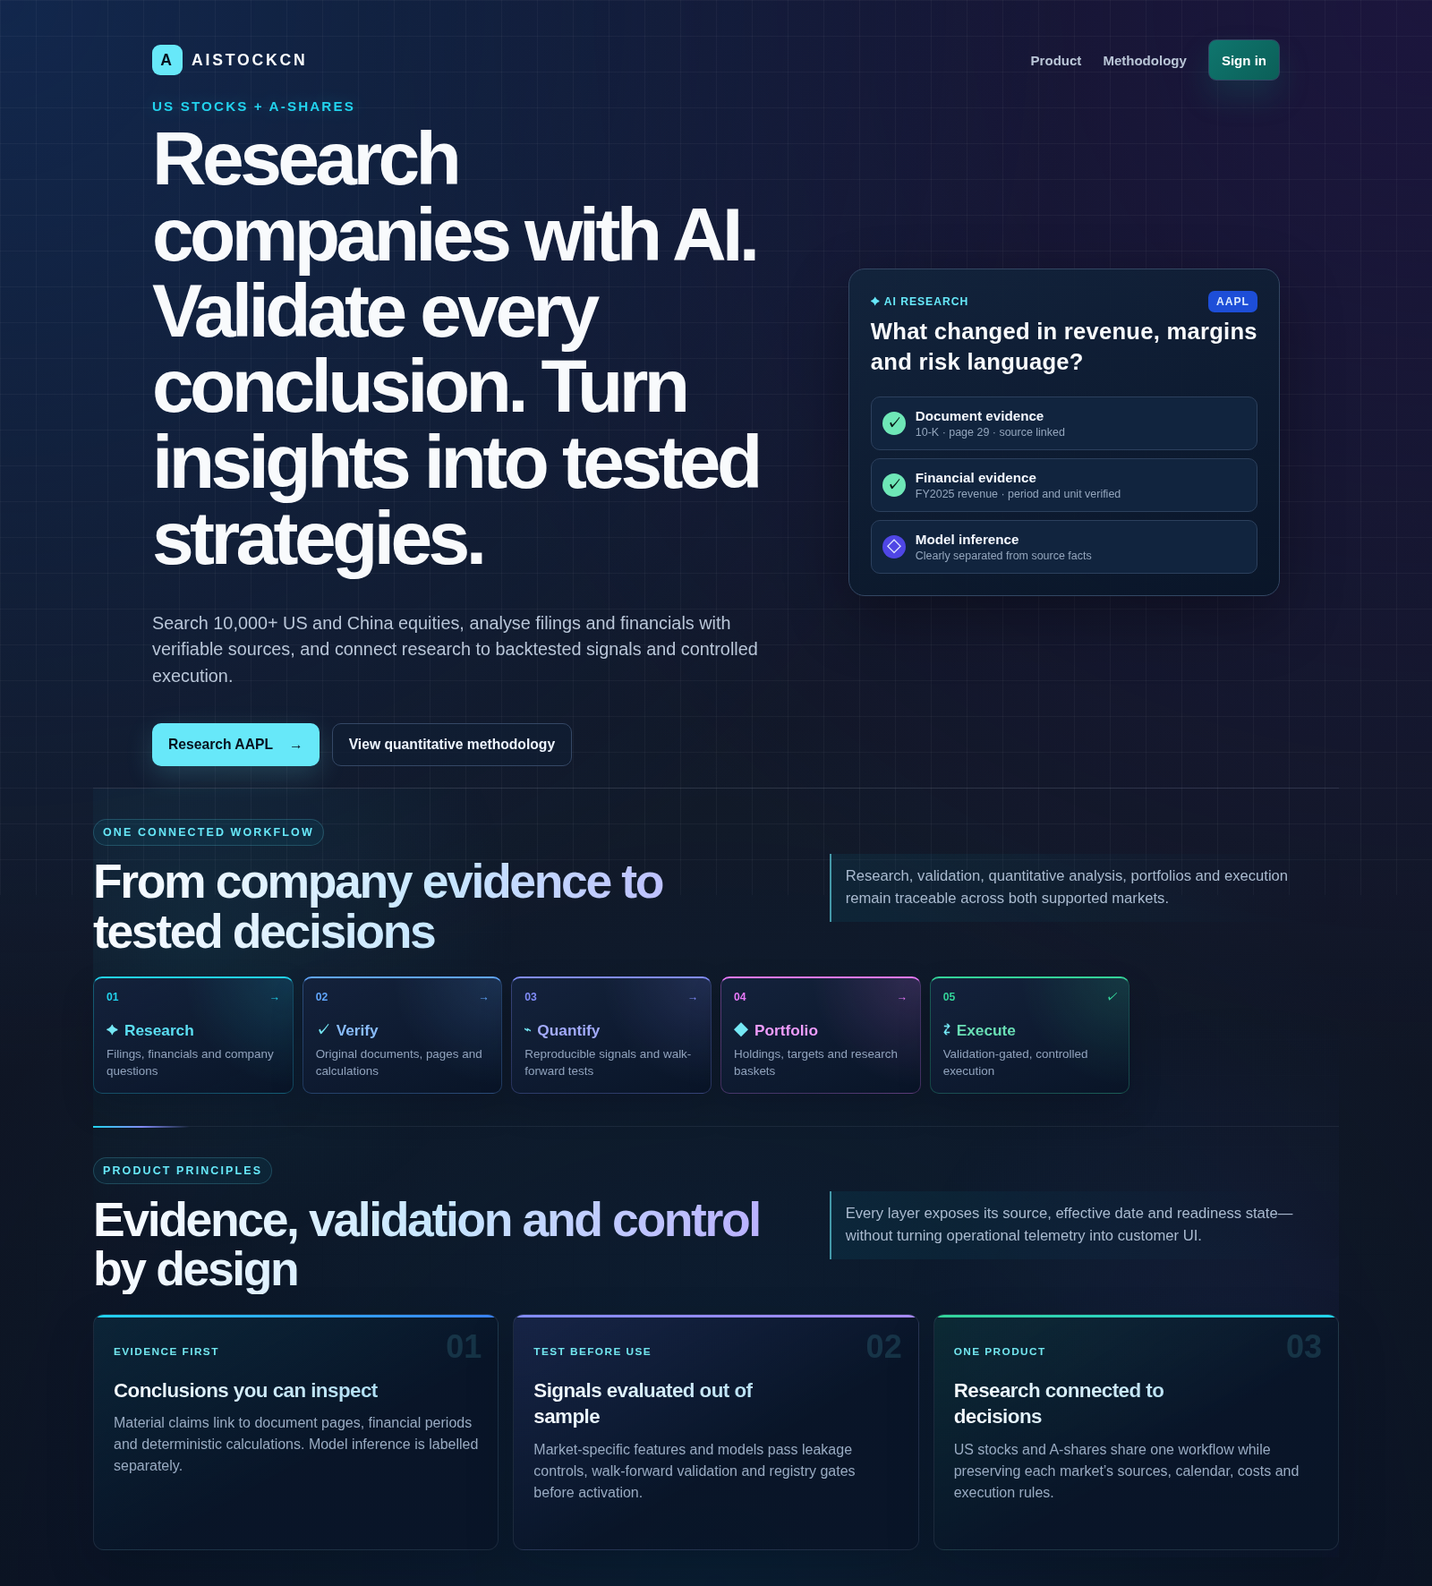
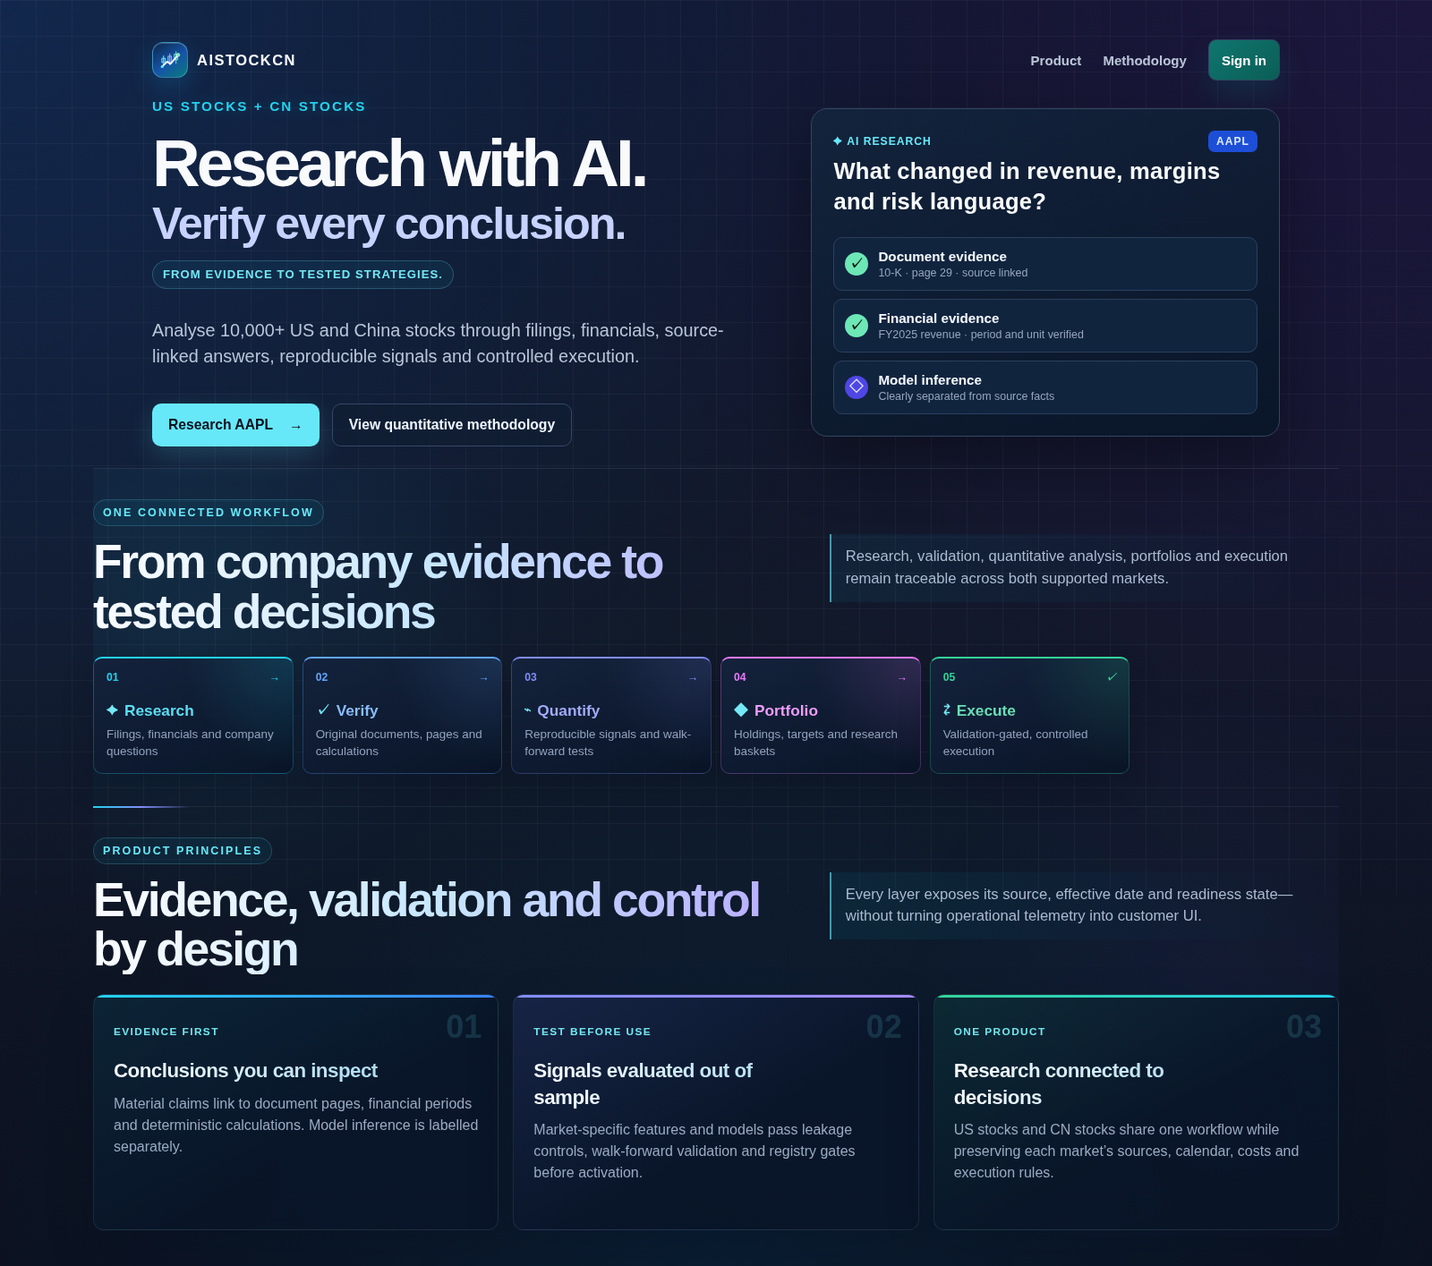
feat: refine dual-market brand and homepage hero

diff --git a/apps/web/app/globals.css b/apps/web/app/globals.css
@@ -4789,14 +4789,25 @@ select {
 .unified-home-hero { min-height: auto; padding-top: 0; }
 .landing-nav { display: flex; align-items: center; justify-content: space-between; width: min(1260px, calc(100% - 36px)); margin: 0 auto; padding: 20px 0; }
 .landing-brand { display: flex; align-items: center; gap: 10px; color: #f8fafc; text-decoration: none; font-size: 1.1rem; }
-.landing-brand > span { display: grid; width: 34px; height: 34px; place-items: center; border-radius: 9px; color: #06111f; background: #67e8f9; font-weight: 900; }
+.landing-brand strong { font-size: 1.03rem; font-weight: 820; letter-spacing: .09em; text-transform: uppercase; }
+.aistock-brand-mark { display: grid; width: 40px; height: 40px; flex: 0 0 auto; place-items: center; overflow: hidden; border: 1px solid rgb(125 211 252 / 42%); border-radius: 12px; color: #fff; background: linear-gradient(145deg, #0b2746 0%, #1654a8 54%, #087b79 100%); box-shadow: 0 10px 28px rgb(14 165 233 / 22%), inset 0 1px 0 rgb(255 255 255 / 18%); }
+.aistock-brand-mark svg { width: 31px; height: 31px; overflow: visible; }
+.aistock-brand-mark .brand-candle { fill: rgb(103 232 249 / 15%); stroke: #77e6f5; stroke-width: 1.25; }
+.aistock-brand-mark .brand-candle-mid { stroke: #a5b4fc; }
+.aistock-brand-mark .brand-candle-right { stroke: #6ee7b7; }
+.aistock-brand-mark .brand-trend { fill: none; stroke: #fff; stroke-width: 2.35; stroke-linecap: round; stroke-linejoin: round; }
+.aistock-brand-mark .brand-market-us { fill: #67e8f9; }
+.aistock-brand-mark .brand-market-cn { fill: #6ee7b7; stroke: rgb(255 255 255 / 80%); stroke-width: .8; }
 .landing-nav > div { display: flex; align-items: center; gap: 24px; }
 .landing-nav > div a { color: #bac6d7; text-decoration: none; font-size: .94rem; font-weight: 650; }
 .landing-nav > div a:hover { color: #fff; }
 .landing-nav .landing-login { padding: 9px 14px; border: 1px solid #334765; border-radius: 9px; color: #fff; }
-.unified-hero-grid { display: grid; grid-template-columns: minmax(0, 1.18fr) minmax(360px, .82fr); align-items: center; gap: clamp(36px, 6vw, 84px); width: min(1260px, 100%); margin: 0 auto; }
-.unified-hero-grid h1 { max-width: 880px; margin: 10px 0 18px; color: #f8fafc; font-size: clamp(2.65rem, 5vw, 5rem); line-height: 1.01; letter-spacing: -.055em; }
-.unified-hero-grid .hero-panel-copy-lead { max-width: 790px; color: #b9c6d8; font-size: clamp(1.08rem, 1.5vw, 1.28rem); line-height: 1.58; }
+.unified-hero-grid { display: grid; grid-template-columns: minmax(0, 1.12fr) minmax(360px, .88fr); align-items: center; gap: clamp(36px, 5vw, 70px); width: min(1260px, 100%); margin: 0 auto; }
+.unified-hero-title-stack { display: grid; gap: 4px; margin: 12px 0 22px; }
+.unified-hero-grid .unified-hero-title-stack h1 { max-width: 760px; margin: 0; padding: 0; color: #f8fafc; font-size: clamp(3.25rem, 5.2vw, 4.65rem); line-height: .98; letter-spacing: -.052em; }
+.unified-hero-thesis { margin: 0; color: #c7d2fe; font-size: clamp(2.05rem, 3.6vw, 3.15rem); font-weight: 760; line-height: 1.05; letter-spacing: -.04em; }
+.unified-hero-outcome { width: fit-content; margin: 10px 0 0; padding: 7px 11px; border: 1px solid rgb(103 232 249 / 24%); border-radius: 999px; color: #73e7f4; background: rgb(14 116 144 / 13%); font-size: .82rem; font-weight: 820; letter-spacing: .08em; line-height: 1.2; text-transform: uppercase; }
+.unified-hero-grid .hero-panel-copy-lead { max-width: 690px; color: #b9c6d8; font-size: clamp(1.04rem, 1.35vw, 1.18rem); line-height: 1.55; }
 .landing-actions { display: flex; flex-wrap: wrap; align-items: center; gap: 14px; margin-top: 28px; }
 .landing-primary-cta, .landing-secondary-cta { display: inline-flex; min-height: 48px; align-items: center; justify-content: center; gap: 18px; padding: 0 18px; border-radius: 10px; text-decoration: none; font-size: .98rem; font-weight: 800; }
 .landing-primary-cta { color: #06111f; background: #67e8f9; box-shadow: 0 10px 30px rgb(103 232 249 / 18%); }
@@ -4815,7 +4826,7 @@ select {
 .product-flow .case-flow-step strong { display: flex; align-items: center; gap: 7px; }
 .product-flow .case-flow-step strong b { color: #75e8f5; font-size: .9em; }
 
-@media (max-width: 900px) {
+@media (max-width: 1080px) {
   .unified-hero-grid { grid-template-columns: 1fr; }
   .landing-evidence-card { max-width: 650px; }
   .landing-nav > div > a:not(.landing-login) { display: none; }
@@ -4823,7 +4834,9 @@ select {
 
 @media (max-width: 560px) {
   .landing-nav { width: calc(100% - 24px); }
-  .unified-hero-grid h1 { font-size: 2.45rem; }
+  .unified-hero-grid .unified-hero-title-stack h1 { font-size: 2.8rem; }
+  .unified-hero-thesis { font-size: 2rem; }
+  .unified-hero-outcome { border-radius: 9px; font-size: .72rem; line-height: 1.35; }
   .landing-actions { align-items: stretch; }
   .landing-actions a { width: 100%; }
   .landing-evidence-card { padding: 16px; }
@@ -8444,10 +8457,9 @@ select {
   font-size: 0.95rem;
 }
 
-.customer-home-hero .hero-landing h1,
-.customer-home-hero h1 {
+.customer-home-hero .unified-hero-title-stack h1 {
   margin-top: -2px;
-  font-size: clamp(3.8rem, 6vw, 5.25rem);
+  font-size: clamp(3.25rem, 5.2vw, 4.65rem);
 }
 
 .customer-home-hero .hero-platform-title {
@@ -8576,9 +8588,8 @@ select {
     font-size: 0.84rem;
   }
 
-  .customer-home-hero .hero-landing h1,
-  .customer-home-hero h1 {
-    font-size: 3.25rem;
+  .customer-home-hero .unified-hero-title-stack h1 {
+    font-size: 2.8rem;
   }
 
   .customer-home-hero .hero-platform-title {

diff --git a/apps/web/components/customer-home-page.tsx b/apps/web/components/customer-home-page.tsx
@@ -2,6 +2,7 @@ import Link from "next/link";
 import { redirect } from "next/navigation";
 
 import { CustomerSystemArchitecture } from "@/components/customer-system-architecture";
+import { BrandMark } from "@/components/brand-mark";
 import { getCurrentUser } from "@/lib/auth";
 
 export async function CustomerHomePage() {
@@ -13,17 +14,21 @@ export async function CustomerHomePage() {
       <div className="shell shell-dark customer-home-shell">
         <header className="hero-landing customer-home-hero unified-home-hero">
           <nav className="landing-nav" aria-label="Public navigation">
-            <Link href="/" className="landing-brand"><span>A</span><strong>AiStockCN</strong></Link>
+            <Link href="/" className="landing-brand" aria-label="AiStockCN home"><BrandMark /><strong>AiStockCN</strong></Link>
             <div><a href="#product-flow">Product</a><a href="#quantitative-methodology">Methodology</a><Link href="/login" className="landing-login">Sign in</Link></div>
           </nav>
           <section className="hero-landing-stage">
             <div className="unified-hero-grid">
               <div className="hero-panel-copy-wrap">
-                <p className="eyebrow hero-dark-eyebrow">US STOCKS + A-SHARES</p>
-                <h1>Research companies with AI. Validate every conclusion. Turn insights into tested strategies.</h1>
+                <p className="eyebrow hero-dark-eyebrow">US STOCKS + CN STOCKS</p>
+                <div className="unified-hero-title-stack">
+                  <h1>Research with AI.</h1>
+                  <p className="unified-hero-thesis">Verify every conclusion.</p>
+                  <p className="unified-hero-outcome">From evidence to tested strategies.</p>
+                </div>
                 <p className="hero-panel-copy hero-panel-copy-lead">
-                  Search 10,000+ US and China equities, analyse filings and financials with verifiable sources,
-                  and connect research to backtested signals and controlled execution.
+                  Analyse 10,000+ US and China stocks through filings, financials, source-linked answers,
+                  reproducible signals and controlled execution.
                 </p>
                 <div className="landing-actions">
                   <Link href="/login?return_to=%2Fus%2Fresearch%3Fsymbol%3DAAPL" className="landing-primary-cta">Research AAPL <span>→</span></Link>

diff --git a/apps/web/app/cn/research/page.tsx b/apps/web/app/cn/research/page.tsx
@@ -27,13 +27,13 @@ export default async function CnResearchPage({
   const matches = result.companies;
 
   return (
-    <Shell title="A-Share Research" subtitle="Official disclosures and financial evidence" locale={user.locale} username={user.displayName} role={user.role} market="CN">
+    <Shell title="CN Stock Research" subtitle="Official disclosures and financial evidence" locale={user.locale} username={user.displayName} role={user.role} market="CN">
       <section className="product-stage-heading">
-        <div><span className="stage-icon">✦</span><div><h1>Company Research</h1><p>Find an A-share company and review traceable market and disclosure evidence.</p></div></div>
+        <div><span className="stage-icon">✦</span><div><h1>Company Research</h1><p>Find a CN stock and review traceable market and disclosure evidence.</p></div></div>
         <span className="capability-label status-in_validation">In validation</span>
       </section>
       <form className="us-stock-search product-search" action="/cn/research" method="get">
-        <input name="q" defaultValue={query} placeholder="Search ticker or company name" aria-label="Search A-share companies" autoFocus />
+        <input name="q" defaultValue={query} placeholder="Search ticker or company name" aria-label="Search CN stocks" autoFocus />
         <button type="submit">Search</button>
         {query ? <Link href="/cn/research">Clear</Link> : null}
       </form>
@@ -52,7 +52,7 @@ export default async function CnResearchPage({
         <MetricCard label="Evidence Policy" value="Official first" hint="Exchange disclosures before third-party data" />
         <MetricCard label="Language" value="中文 / English" />
       </section>
-      <Panel title={query ? `Results for “${query}”` : "A-Share companies"}>
+      <Panel title={query ? `Results for “${query}”` : "CN stock companies"}>
         <DataTable
           rows={matches.map((stock) => ({ code: stock.symbol, code_href: `/cn/research?symbol=${encodeURIComponent(stock.symbol)}`, company: stock.stock_name_zh || stock.stock_name, exchange: stock.market }))}
           columns={[{ key: "code", label: "Ticker" }, { key: "company", label: "Company" }, { key: "exchange", label: "Exchange" }]}

diff --git a/apps/web/components/quant-methodology-page.tsx b/apps/web/components/quant-methodology-page.tsx
@@ -24,12 +24,12 @@ export async function QuantMethodologyPage({ market, view, user }: { market: "CN
     <Shell title="Quant" subtitle="Signals, validation and market data" locale={user.locale} username={user.displayName} role={user.role} market={market}>
       <ProductSubnav items={tabs(market)} active={view} />
       <section className="product-stage-heading">
-        <div><span className="stage-icon">⌁</span><div><h1>{view === "methodology" ? "Quantitative Methodology" : "Walk-forward Validation"}</h1><p>{market === "US" ? "US-specific 5-day research pipeline" : "A-share production signal pipeline"}</p></div></div>
+        <div><span className="stage-icon">⌁</span><div><h1>{view === "methodology" ? "Quantitative Methodology" : "Walk-forward Validation"}</h1><p>{market === "US" ? "US-specific 5-day research pipeline" : "CN stock production signal pipeline"}</p></div></div>
         {capability ? <span className={`capability-label status-${capability.status}`}>{capability.status.replaceAll("_", " ")}</span> : null}
       </section>
       {view === "methodology" ? (
         <div className="case-capability-grid quant-method-grid">
-          <Panel title="Market isolation"><p className="panel-copy">{market === "US" ? "US calendar, adjusted prices, USD costs and us_5d_v1 artifacts are isolated from A-share production." : "China calendar, price limits, lot size, fees and model artifacts remain market-specific."}</p></Panel>
+          <Panel title="Market isolation"><p className="panel-copy">{market === "US" ? "US calendar, adjusted prices, USD costs and us_5d_v1 artifacts are isolated from CN stock production." : "China calendar, price limits, lot size, fees and model artifacts remain market-specific."}</p></Panel>
           <Panel title="Leakage controls"><p className="panel-copy">Features use information available at signal time. Purged expanding windows keep training observations away from validation labels.</p></Panel>
           <Panel title="Activation"><p className="panel-copy">Immutable artifacts, checksum manifests and validation records pass through the PostgreSQL Model Registry before paper permission can change.</p></Panel>
         </div>

diff --git a/apps/web/app/us/models/page.tsx b/apps/web/app/us/models/page.tsx
@@ -15,7 +15,7 @@ export default async function UsModelsPage() {
   return (
     <UsShell user={user} title="US Models" subtitle="Training and validation gates">
       <section className="metrics-grid">
-        <MetricCard label="Profile" value={model.profile.name} hint="Independent from all A-share models" />
+        <MetricCard label="Profile" value={model.profile.name} hint="Independent from all CN stock models" />
         <MetricCard label="Horizon" value={`${model.profile.horizon_trading_days} trading days`} hint="Next open to fifth close" />
         <MetricCard label="Benchmark" value={model.profile.benchmark.symbol} hint={model.profile.benchmark.name} />
         <MetricCard label="Available History" value={`${formatNumber(gate.available_trading_dates, user.locale)} days`} hint={`${formatNumber(gate.required_trading_dates, user.locale)} required`} />
@@ -28,7 +28,7 @@ export default async function UsModelsPage() {
         </div>
         <GateChecklist items={[
           { label: "Historical depth", ready: gate.history_ready, detail: `${gate.available_trading_dates} / ${gate.required_trading_dates} trading days.` },
-          { label: "US-only training", ready: gate.training_ready, detail: "The model will train only on United States equities; A-share samples are never mixed in." },
+          { label: "US-only training", ready: gate.training_ready, detail: "The model will train only on United States equities; CN stock samples are never mixed in." },
           { label: "Walk-forward evaluation", ready: gate.walk_forward_ready, detail: "Out-of-sample rank IC, net return, Sharpe and drawdown must be published before activation." },
           { label: "Paper activation", ready: gate.ready, detail: "No US orders can be generated while any gate remains incomplete." }
         ]} />

diff --git a/apps/web/app/admin/page.tsx b/apps/web/app/admin/page.tsx
@@ -116,9 +116,9 @@ export default async function AdminPage() {
     >
       <AdminNavigation active="platform" />
       <section className="admin-workspace-links" aria-label="Operational workspaces">
-        <Link href="/system-monitor"><strong>A-share monitor</strong><span>Runtime and service health</span></Link>
-        <Link href="/batch"><strong>A-share data pipeline</strong><span>Batch progress and controls</span></Link>
-        <Link href="/models"><strong>A-share models</strong><span>Registry, validation and activation</span></Link>
+        <Link href="/system-monitor"><strong>CN stock monitor</strong><span>Runtime and service health</span></Link>
+        <Link href="/batch"><strong>CN stock data pipeline</strong><span>Batch progress and controls</span></Link>
+        <Link href="/models"><strong>CN stock models</strong><span>Registry, validation and activation</span></Link>
         <Link href="/us/system-monitor"><strong>US market monitor</strong><span>Runtime and service health</span></Link>
         <Link href="/us/batch"><strong>US data pipeline</strong><span>Coverage and batch status</span></Link>
         <Link href="/us/models"><strong>US model readiness</strong><span>Pipeline and model gates</span></Link>

diff --git a/apps/web/app/us/paper/page.tsx b/apps/web/app/us/paper/page.tsx
@@ -26,7 +26,7 @@ export default async function UsPaperPage() {
       <Panel title="Validation Gates" aside={<span className="pill">No order actions</span>}>
         <GateChecklist items={[
           { label: "Adjusted historical data", ready: gate.history_ready, detail: `${gate.available_trading_dates} / ${gate.required_trading_dates} dates; ${gate.available_symbols_with_history} / ${gate.required_symbols_with_history} symbols ready.` },
-          { label: "US 5D model candidate", ready: gate.training_ready, detail: "The model, calendar and artifacts remain isolated from A-share production." },
+          { label: "US 5D model candidate", ready: gate.training_ready, detail: "The model, calendar and artifacts remain isolated from CN stock production." },
           { label: "Walk-forward passed", ready: gate.walk_forward_ready, detail: "Out-of-sample performance and costs must pass the published thresholds." },
           { label: "Registry activation", ready: gate.ready, detail: "Activation is atomic and validation-gated; it still cannot submit a broker order." },
           { label: "Broker order submission", ready: false, detail: "Intentionally disabled for the US market in this release." }

diff --git a/apps/web/app/paper/page.tsx b/apps/web/app/paper/page.tsx
@@ -712,7 +712,7 @@ export default async function PaperPage({
 
   return (
     <Shell
-      title="A-Share Execution"
+      title="CN Stocks Execution"
       subtitle="Planned orders, fills and controlled execution"
       locale={user.locale}
       username={user.username}
@@ -720,7 +720,7 @@ export default async function PaperPage({
     >
       <AutoRefresh intervalSeconds={15} />
       <section className="product-stage-heading">
-        <div><span className="stage-icon">⇄</span><div><h1>A-Share Execution</h1><p>Planned orders, fills and controlled broker actions.</p></div></div>
+        <div><span className="stage-icon">⇄</span><div><h1>CN Stocks Execution</h1><p>Planned orders, fills and controlled broker actions.</p></div></div>
         <span className="capability-label status-live">Live</span>
       </section>
       {flash ? <p className={`banner banner-${flash.tone}`}>{flash.text}</p> : null}

diff --git a/apps/web/components/customer-system-architecture.tsx b/apps/web/components/customer-system-architecture.tsx
@@ -9,7 +9,7 @@ const productSteps = [
 const principles = [
   { label: "Evidence first", title: "Conclusions you can inspect", body: "Material claims link to document pages, financial periods and deterministic calculations. Model inference is labelled separately." },
   { label: "Test before use", title: "Signals evaluated out of sample", body: "Market-specific features and models pass leakage controls, walk-forward validation and registry gates before activation." },
-  { label: "One product", title: "Research connected to decisions", body: "US stocks and A-shares share one workflow while preserving each market’s sources, calendar, costs and execution rules." }
+  { label: "One product", title: "Research connected to decisions", body: "US stocks and CN stocks share one workflow while preserving each market’s sources, calendar, costs and execution rules." }
 ];
 
 export function CustomerSystemArchitecture() {

diff --git a/apps/web/components/brand-mark.tsx b/apps/web/components/brand-mark.tsx
@@ -1,0 +1,14 @@
+export function BrandMark({ className = "" }: { className?: string }) {
+  return (
+    <span className={`aistock-brand-mark${className ? ` ${className}` : ""}`} aria-hidden="true">
+      <svg viewBox="0 0 40 40" role="presentation" focusable="false">
+        <path className="brand-candle brand-candle-left" d="M10 13v13M7.5 17h5v6h-5z" />
+        <path className="brand-candle brand-candle-mid" d="M19 10v17M16.5 14h5v8h-5z" />
+        <path className="brand-candle brand-candle-right" d="M28 7v18M25.5 11h5v8h-5z" />
+        <path className="brand-trend" d="M8 29l7-7 5 3 11-13" />
+        <circle className="brand-market brand-market-us" cx="8" cy="29" r="2" />
+        <circle className="brand-market brand-market-cn" cx="31" cy="12" r="2.4" />
+      </svg>
+    </span>
+  );
+}

diff --git a/apps/web/components/shell.tsx b/apps/web/components/shell.tsx
@@ -8,6 +8,7 @@ import { ShanghaiTime } from "@/components/shanghai-time";
 import { ThemeToggle } from "@/components/theme-toggle";
 import { MarketSwitcher } from "@/components/market-switcher";
 import { getMarketCapabilities, type MarketStage } from "@/lib/api";
+import { BrandMark } from "@/components/brand-mark";
 
 export async function Shell({
   title,
@@ -59,7 +60,7 @@ export async function Shell({
       <div className="us-terminal-shell">
         <aside className="us-terminal-sidebar">
           <div className="us-terminal-brand">
-            <span className="us-terminal-mark" aria-hidden="true">A</span>
+            <BrandMark className="aistock-brand-mark-sidebar" />
             <span><strong>AiStockCN</strong><small>Equity Intelligence</small></span>
           </div>
 

diff --git a/apps/web/app/cn/overview/page.tsx b/apps/web/app/cn/overview/page.tsx
@@ -14,7 +14,7 @@ export default async function CnOverviewPage() {
   const account = overview.account;
 
   return (
-    <Shell title="A-Share Overview" subtitle="Market and account context" locale={user.locale} username={user.displayName} role={user.role} market="CN">
+    <Shell title="CN Stocks Overview" subtitle="Market and account context" locale={user.locale} username={user.displayName} role={user.role} market="CN">
       <section className="product-stage-heading">
         <div><span className="stage-icon">▦</span><div><h1>Market Overview</h1><p>Today&apos;s account state and direct access to the full investment workflow.</p></div></div>
         <span className="capability-label status-live">Live</span>
